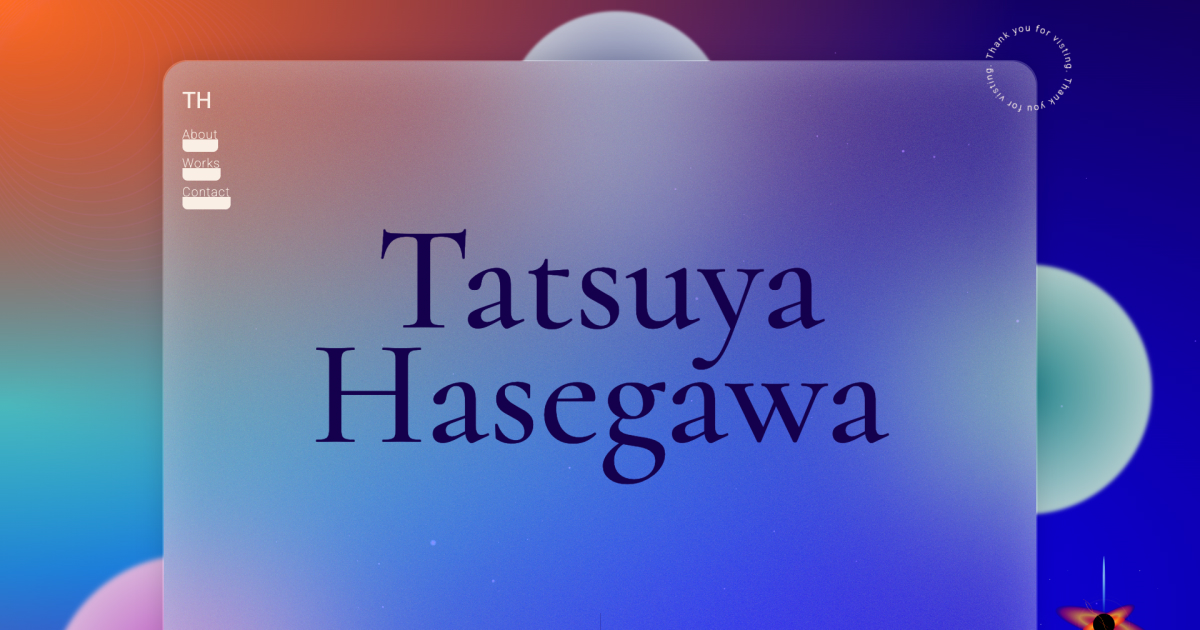
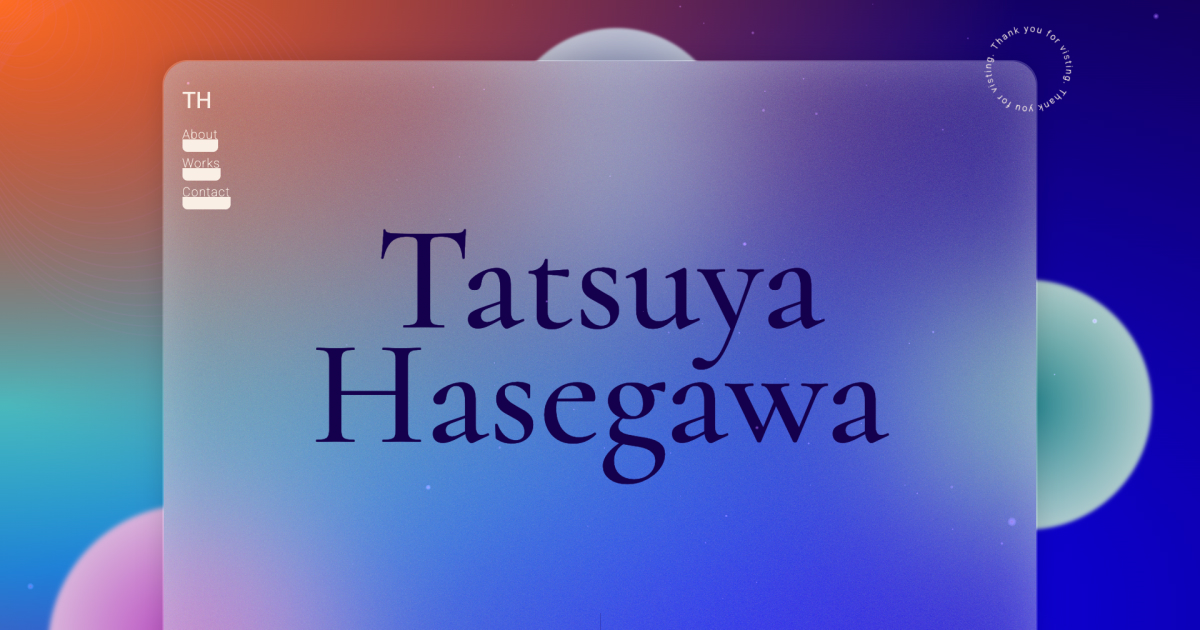
fix: remove black hole

diff --git a/src/app/layout.tsx b/src/app/layout.tsx
@@ -1,6 +1,5 @@
 import { backgroundGradient, body, html } from "@/app/layout.css";
 import AudioButton from "@/components/audio/audioPlayer";
-import BlackHole from "@/components/blackHole/blackHole";
 import Object1 from "@/components/object/object1";
 import Object2 from "@/components/object/object2";
 import Object3 from "@/components/object/object3";
@@ -36,7 +35,6 @@ export default function RootLayout({
           <Object2 />
           <Object3 />
           <Spiral />
-          <BlackHole />
           <ParticleEffect />
         </Providers>
         {isProduction && <GoogleAnalytics gaId="G-KM86JXK42S" />}
